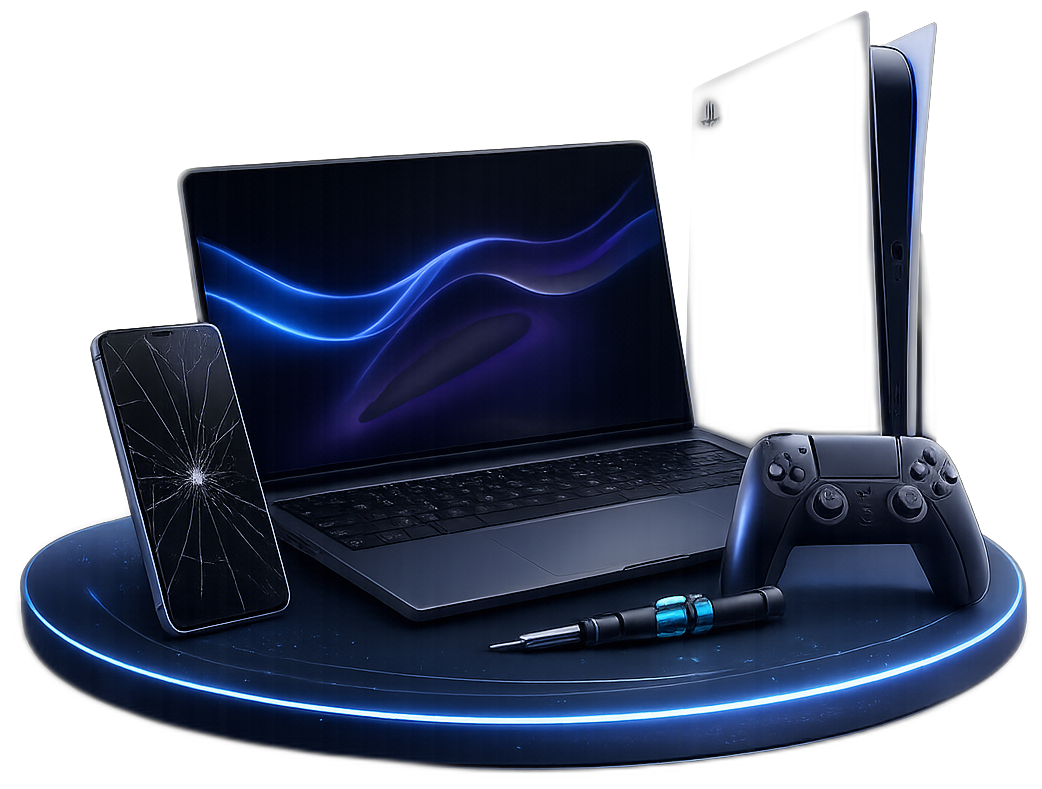
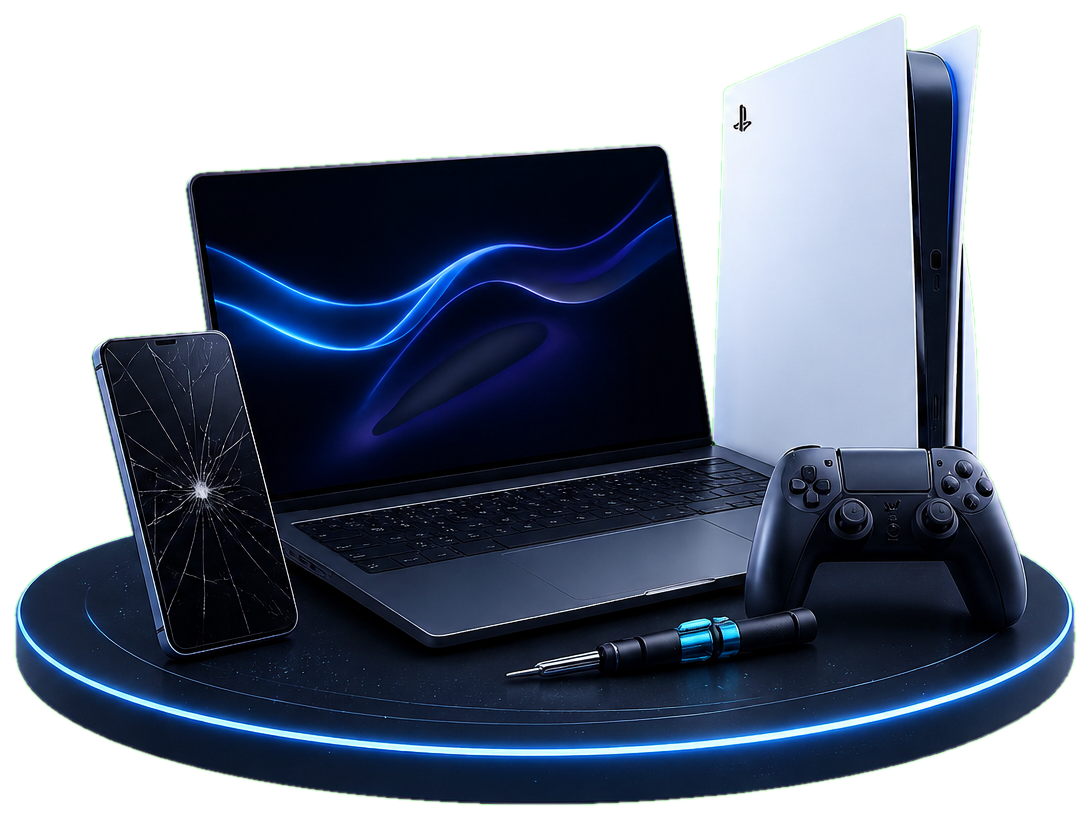
design: hero cluster v2 + animated orbit rings + bluer gradient
Replace the device-cluster asset with a green-screen-keyed version so the
PS5 survives the cutout (chroma-key + despill instead of white removal).
Rebuild the orbit rings as an SVG system with variety — a full ring, a
dashed ring, and a partial arc — with dots along them, slowly rotating in
alternating directions under an organic drift/breathe (reduced-motion safe).
Strengthen the blue gradient in the hero background, concentrated near the
cluster.

Changed region(s): [[0.0, 0.0, 1.0, 1.0], [0.3378, 0.73, 0.4607, 0.8213], [0.4299, 0.4563, 0.4607, 0.4867]]

diff --git a/index.html b/index.html
@@ -1735,7 +1735,7 @@ a{color:inherit;text-decoration:none}
 <style id="hh-hero-css">
 /* ===== Homepage hero — reference redesign (near-black) ===== */
 .hh-hero{position:relative;overflow:hidden;isolation:isolate;
-  background:radial-gradient(46% 42% at 72% 36%,rgba(70,108,255,.13),transparent 62%),radial-gradient(40% 40% at 12% 4%,rgba(70,108,255,.05),transparent 60%),linear-gradient(180deg,#06070a 0%,#070809 62%,#0a0d13 100%)}
+  background:radial-gradient(42% 50% at 73% 45%,rgba(70,112,255,.26),transparent 60%),radial-gradient(28% 32% at 70% 41%,rgba(104,146,255,.20),transparent 55%),radial-gradient(72% 62% at 13% 1%,rgba(60,100,255,.07),transparent 62%),linear-gradient(180deg,#06080d 0%,#070a12 55%,#0a0d15 100%)}
 .hh-hero *{box-sizing:border-box}
 .hh-shell{max-width:1260px;margin:0 auto;padding:2.2rem 1.7rem 0}
 .hh-grid{display:grid;grid-template-columns:minmax(0,1.08fr) minmax(0,1fr);gap:2rem;align-items:center;min-height:540px}
@@ -1764,12 +1764,19 @@ a{color:inherit;text-decoration:none}
 .hh-phone:hover{border-color:rgba(120,150,255,.5);color:#fff}
 
 .hh-stage{position:relative;display:flex;align-items:center;justify-content:center;min-height:520px}
-.hh-orbits{position:absolute;inset:0;z-index:0;pointer-events:none;overflow:visible}
-.hh-orbits .ring{position:absolute;top:50%;left:52%;border-radius:50%;border:1px solid rgba(120,150,255,.12);transform:translate(-50%,-50%)}
-.hh-orbits .ring.a{width:560px;height:560px}
-.hh-orbits .ring.b{width:760px;height:760px;border-color:rgba(120,150,255,.06)}
-.hh-orbits .dot{position:absolute;width:5px;height:5px;border-radius:50%;background:#7da3ff;box-shadow:0 0 8px rgba(125,163,255,.8)}
-.hh-orbits .d1{top:14%;left:78%}.hh-orbits .d2{top:42%;left:14%}.hh-orbits .d3{top:80%;left:30%}
+.hh-orbits{position:absolute;top:50%;left:53%;width:780px;height:780px;transform:translate(-50%,-50%);z-index:0;pointer-events:none}
+.hh-orbits svg{width:100%;height:100%;overflow:visible;animation:hhDrift 18s ease-in-out infinite;transform-origin:50% 50%}
+.hh-orbits .spin{transform-box:view-box;transform-origin:50% 50%}
+.hh-orbits .ringline{fill:none;stroke:rgba(125,163,255,.17)}
+.hh-orbits .ringfaint{stroke:rgba(125,163,255,.09)}
+.hh-orbits .odot{fill:#9cc0ff;filter:drop-shadow(0 0 1.4px rgba(140,180,255,.85))}
+.hh-orbits .odot-faint{fill:#5f7bd6;filter:none}
+.hh-orbits .spin-a{animation:hhCW 72s linear infinite}
+.hh-orbits .spin-b{animation:hhCCW 96s linear infinite}
+.hh-orbits .spin-c{animation:hhCW 128s linear infinite}
+@keyframes hhCW{to{transform:rotate(360deg)}}@keyframes hhCCW{to{transform:rotate(-360deg)}}
+@keyframes hhDrift{0%,100%{transform:rotate(-1.4deg) scale(1)}50%{transform:rotate(1.4deg) scale(1.03)}}
+@media(prefers-reduced-motion:reduce){.hh-orbits svg,.hh-orbits .spin{animation:none!important}}
 .hh-cluster{position:relative;z-index:2;width:min(108%,640px);height:auto;filter:drop-shadow(0 40px 70px rgba(0,0,0,.6))}
 .hh-callout{position:absolute;z-index:3;display:flex;gap:.6rem;align-items:flex-start;width:208px;padding:.8rem .9rem;border-radius:15px;border:1px solid rgba(255,255,255,.10);background:rgba(13,16,24,.82);backdrop-filter:blur(12px);box-shadow:0 16px 40px rgba(0,0,0,.4)}
 .hh-callout .ic{flex:0 0 34px;height:34px;border-radius:10px;background:rgba(96,128,240,.14);border:1px solid rgba(96,128,240,.28);display:flex;align-items:center;justify-content:center;color:#8aa3ff}
@@ -1795,7 +1802,7 @@ a{color:inherit;text-decoration:none}
   .hh-stage{min-height:0;margin-top:.5rem}
   .hh-cluster{width:min(92%,520px)}
   .hh-callout{display:none}
-  .hh-orbits .ring{display:none}
+  .hh-orbits{display:none}
   .hh-services{grid-template-columns:repeat(3,1fr)}
   .hh-svc:nth-child(-n+3){border-bottom:1px solid rgba(255,255,255,.07)}
   .hh-svc:nth-child(3n+1){border-left:none}
@@ -1918,7 +1925,7 @@ a{color:inherit;text-decoration:none}
 <!-- ═══════════════════════════════════════════
        HERO
   ══════════════════════════════════════════════ -->
-<section class="hh-hero" id="home-hero"><div class="hh-shell"><div class="hh-grid"><div class="hh-left"><div class="hh-badge"><span aria-hidden="true" class="material-symbols-outlined" data-icon="location_on"></span>Wood River Valley &middot; Mail-in available</div><h1 class="hh-title">Phone &amp; Computer<br/>Repair <span class="hh-accent">in Hailey</span></h1><p class="hh-tagline">Phones, laptops, tablets, consoles &mdash; text photos first for a quote.</p><p class="hh-sub">Fast, fair repair for iPhone, Android, laptop, MacBook, tablet, console, gaming PC, and small-business tech problems. Text the device model, what happened, symptoms, and photos for a quote-first repair path.</p><div class="hh-actions"><a class="hh-btn hh-btn-primary" href="/contact"><span aria-hidden="true" class="material-symbols-outlined" data-icon="sms"></span>Text Photos for a Quote <span class="arr"><span aria-hidden="true" class="material-symbols-outlined" data-icon="arrow_forward"></span></span></a><a class="hh-btn hh-btn-ghost" href="#services"><span aria-hidden="true" class="material-symbols-outlined" data-icon="grid_view"></span>See Services</a></div><div class="hh-stats"><div class="hh-stat"><span aria-hidden="true" class="material-symbols-outlined" data-icon="forum"></span><div><strong>&lt; 2 hr</strong>response</div></div><div class="hh-sep"></div><div class="hh-stat"><span aria-hidden="true" class="material-symbols-outlined" data-icon="star"></span><div><strong>5-star</strong>rated</div></div><div class="hh-sep"></div><div class="hh-stat"><span aria-hidden="true" class="material-symbols-outlined" data-icon="local_shipping"></span><div><strong>Mail-in</strong>available</div></div><div class="hh-sep"></div><div class="hh-stat"><span class="dot" id="heroStatusDot"></span><div><strong id="heroClock">Open now</strong>Mon&ndash;Fri 9&ndash;9</div></div></div><a class="hh-phone" href="tel:+12084501606"><span aria-hidden="true" class="material-symbols-outlined" data-icon="call"></span>(208) 450-1606</a></div><div class="hh-right"><div class="hh-stage"><div class="hh-orbits"><span class="ring a"></span><span class="ring b"></span><span class="dot d1"></span><span class="dot d2"></span><span class="dot d3"></span></div><img class="hh-cluster" src="/assets/hero/hero-cluster.png" alt="Phone, laptop, game console, controller and gaming PC on a repair bench" width="1042" height="789" decoding="async" fetchpriority="high"/><div class="hh-callout c1"><div class="ic"><span aria-hidden="true" class="material-symbols-outlined" data-icon="bolt"></span></div><div><strong>Fast Turnaround</strong><span>Most repairs done same day when possible.</span></div></div><div class="hh-callout c2"><div class="ic"><span aria-hidden="true" class="material-symbols-outlined" data-icon="shield"></span></div><div><strong>Bench-Tested</strong><span>Every device tested before return.</span></div></div><div class="hh-callout c3"><div class="ic"><span aria-hidden="true" class="material-symbols-outlined" data-icon="schedule"></span></div><div><strong>Local &amp; Trusted</strong><span>Hailey local. Real people, real help.</span></div></div></div></div></div><div class="hh-services"><a class="hh-svc" href="/iphone-repair"><div class="ic"><span aria-hidden="true" class="material-symbols-outlined" data-icon="phone_iphone"></span></div><h3>Phones</h3><p>Cracked screens, battery, charging, water damage</p><span class="arr"><span aria-hidden="true" class="material-symbols-outlined" data-icon="arrow_forward"></span></span></a><a class="hh-svc" href="/laptop-repair"><div class="ic"><span aria-hidden="true" class="material-symbols-outlined" data-icon="laptop"></span></div><h3>Laptops</h3><p>Performance, battery, screens, keyboards</p><span class="arr"><span aria-hidden="true" class="material-symbols-outlined" data-icon="arrow_forward"></span></span></a><a class="hh-svc" href="/tablet-repair"><div class="ic"><span aria-hidden="true" class="material-symbols-outlined" data-icon="tablet"></span></div><h3>Tablets</h3><p>Screens, charging, battery, software</p><span class="arr"><span aria-hidden="true" class="material-symbols-outlined" data-icon="arrow_forward"></span></span></a><a class="hh-svc" href="/console-repair"><div class="ic"><span aria-hidden="true" class="material-symbols-outlined" data-icon="sports_esports"></span></div><h3>Consoles</h3><p>PS5, Xbox, Switch repairs &amp; cleaning</p><span class="arr"><span aria-hidden="true" class="material-symbols-outlined" data-icon="arrow_forward"></span></span></a><a class="hh-svc" href="/gaming-pc-repair"><div class="ic"><span aria-hidden="true" class="material-symbols-outlined" data-icon="dvr"></span></div><h3>Custom PC</h3><p>Diagnostics, builds, upgrades, fixes</p><span class="arr"><span aria-hidden="true" class="material-symbols-outlined" data-icon="arrow_forward"></span></span></a><a class="hh-svc" href="/computer-support"><div class="ic"><span aria-hidden="true" class="material-symbols-outlined" data-icon="business_center"></span></div><h3>Business Tech</h3><p>Small business IT support &amp; repair</p><span class="arr"><span aria-hidden="true" class="material-symbols-outlined" data-icon="arrow_forward"></span></span></a></div></div></section>
+<section class="hh-hero" id="home-hero"><div class="hh-shell"><div class="hh-grid"><div class="hh-left"><div class="hh-badge"><span aria-hidden="true" class="material-symbols-outlined" data-icon="location_on"></span>Wood River Valley &middot; Mail-in available</div><h1 class="hh-title">Phone &amp; Computer<br/>Repair <span class="hh-accent">in Hailey</span></h1><p class="hh-tagline">Phones, laptops, tablets, consoles &mdash; text photos first for a quote.</p><p class="hh-sub">Fast, fair repair for iPhone, Android, laptop, MacBook, tablet, console, gaming PC, and small-business tech problems. Text the device model, what happened, symptoms, and photos for a quote-first repair path.</p><div class="hh-actions"><a class="hh-btn hh-btn-primary" href="/contact"><span aria-hidden="true" class="material-symbols-outlined" data-icon="sms"></span>Text Photos for a Quote <span class="arr"><span aria-hidden="true" class="material-symbols-outlined" data-icon="arrow_forward"></span></span></a><a class="hh-btn hh-btn-ghost" href="#services"><span aria-hidden="true" class="material-symbols-outlined" data-icon="grid_view"></span>See Services</a></div><div class="hh-stats"><div class="hh-stat"><span aria-hidden="true" class="material-symbols-outlined" data-icon="forum"></span><div><strong>&lt; 2 hr</strong>response</div></div><div class="hh-sep"></div><div class="hh-stat"><span aria-hidden="true" class="material-symbols-outlined" data-icon="star"></span><div><strong>5-star</strong>rated</div></div><div class="hh-sep"></div><div class="hh-stat"><span aria-hidden="true" class="material-symbols-outlined" data-icon="local_shipping"></span><div><strong>Mail-in</strong>available</div></div><div class="hh-sep"></div><div class="hh-stat"><span class="dot" id="heroStatusDot"></span><div><strong id="heroClock">Open now</strong>Mon&ndash;Fri 9&ndash;9</div></div></div><a class="hh-phone" href="tel:+12084501606"><span aria-hidden="true" class="material-symbols-outlined" data-icon="call"></span>(208) 450-1606</a></div><div class="hh-right"><div class="hh-stage"><div class="hh-orbits" aria-hidden="true"><svg viewBox="0 0 100 100" preserveAspectRatio="xMidYMid meet"><g class="spin spin-a"><circle class="ringline" cx="50" cy="50" r="30" stroke-width="0.35"/><circle class="odot" cx="78.2" cy="60.3" r="1"/><circle class="odot" cx="27" cy="69.3" r="0.85"/><circle class="odot" cx="39.7" cy="21.8" r="0.9"/></g><g class="spin spin-b"><circle class="ringline" cx="50" cy="50" r="39" stroke-width="0.4" stroke-dasharray="2.4 5"/><circle class="odot" cx="56.8" cy="88.4" r="0.9"/><circle class="odot" cx="16.2" cy="30.5" r="0.85"/></g><g class="spin spin-c"><circle class="ringline ringfaint" cx="50" cy="50" r="47" stroke-width="0.4" stroke-dasharray="188 200"/><circle class="odot" cx="86" cy="19.8" r="1.1"/></g><circle class="odot odot-faint" cx="82" cy="14" r="0.7"/><circle class="odot odot-faint" cx="14" cy="56" r="0.7"/></svg></div><img class="hh-cluster" src="/assets/hero/hero-cluster.png" alt="Phone, laptop, game console, controller and gaming PC on a repair bench" width="1090" height="819" decoding="async" fetchpriority="high"/><div class="hh-callout c1"><div class="ic"><span aria-hidden="true" class="material-symbols-outlined" data-icon="bolt"></span></div><div><strong>Fast Turnaround</strong><span>Most repairs done same day when possible.</span></div></div><div class="hh-callout c2"><div class="ic"><span aria-hidden="true" class="material-symbols-outlined" data-icon="shield"></span></div><div><strong>Bench-Tested</strong><span>Every device tested before return.</span></div></div><div class="hh-callout c3"><div class="ic"><span aria-hidden="true" class="material-symbols-outlined" data-icon="schedule"></span></div><div><strong>Local &amp; Trusted</strong><span>Hailey local. Real people, real help.</span></div></div></div></div></div><div class="hh-services"><a class="hh-svc" href="/iphone-repair"><div class="ic"><span aria-hidden="true" class="material-symbols-outlined" data-icon="phone_iphone"></span></div><h3>Phones</h3><p>Cracked screens, battery, charging, water damage</p><span class="arr"><span aria-hidden="true" class="material-symbols-outlined" data-icon="arrow_forward"></span></span></a><a class="hh-svc" href="/laptop-repair"><div class="ic"><span aria-hidden="true" class="material-symbols-outlined" data-icon="laptop"></span></div><h3>Laptops</h3><p>Performance, battery, screens, keyboards</p><span class="arr"><span aria-hidden="true" class="material-symbols-outlined" data-icon="arrow_forward"></span></span></a><a class="hh-svc" href="/tablet-repair"><div class="ic"><span aria-hidden="true" class="material-symbols-outlined" data-icon="tablet"></span></div><h3>Tablets</h3><p>Screens, charging, battery, software</p><span class="arr"><span aria-hidden="true" class="material-symbols-outlined" data-icon="arrow_forward"></span></span></a><a class="hh-svc" href="/console-repair"><div class="ic"><span aria-hidden="true" class="material-symbols-outlined" data-icon="sports_esports"></span></div><h3>Consoles</h3><p>PS5, Xbox, Switch repairs &amp; cleaning</p><span class="arr"><span aria-hidden="true" class="material-symbols-outlined" data-icon="arrow_forward"></span></span></a><a class="hh-svc" href="/gaming-pc-repair"><div class="ic"><span aria-hidden="true" class="material-symbols-outlined" data-icon="dvr"></span></div><h3>Custom PC</h3><p>Diagnostics, builds, upgrades, fixes</p><span class="arr"><span aria-hidden="true" class="material-symbols-outlined" data-icon="arrow_forward"></span></span></a><a class="hh-svc" href="/computer-support"><div class="ic"><span aria-hidden="true" class="material-symbols-outlined" data-icon="business_center"></span></div><h3>Business Tech</h3><p>Small business IT support &amp; repair</p><span class="arr"><span aria-hidden="true" class="material-symbols-outlined" data-icon="arrow_forward"></span></span></a></div></div></section>
 
 <!-- ═══════════════════════════════════════════
        REPAIR LEDGER + TEXT GUIDE
